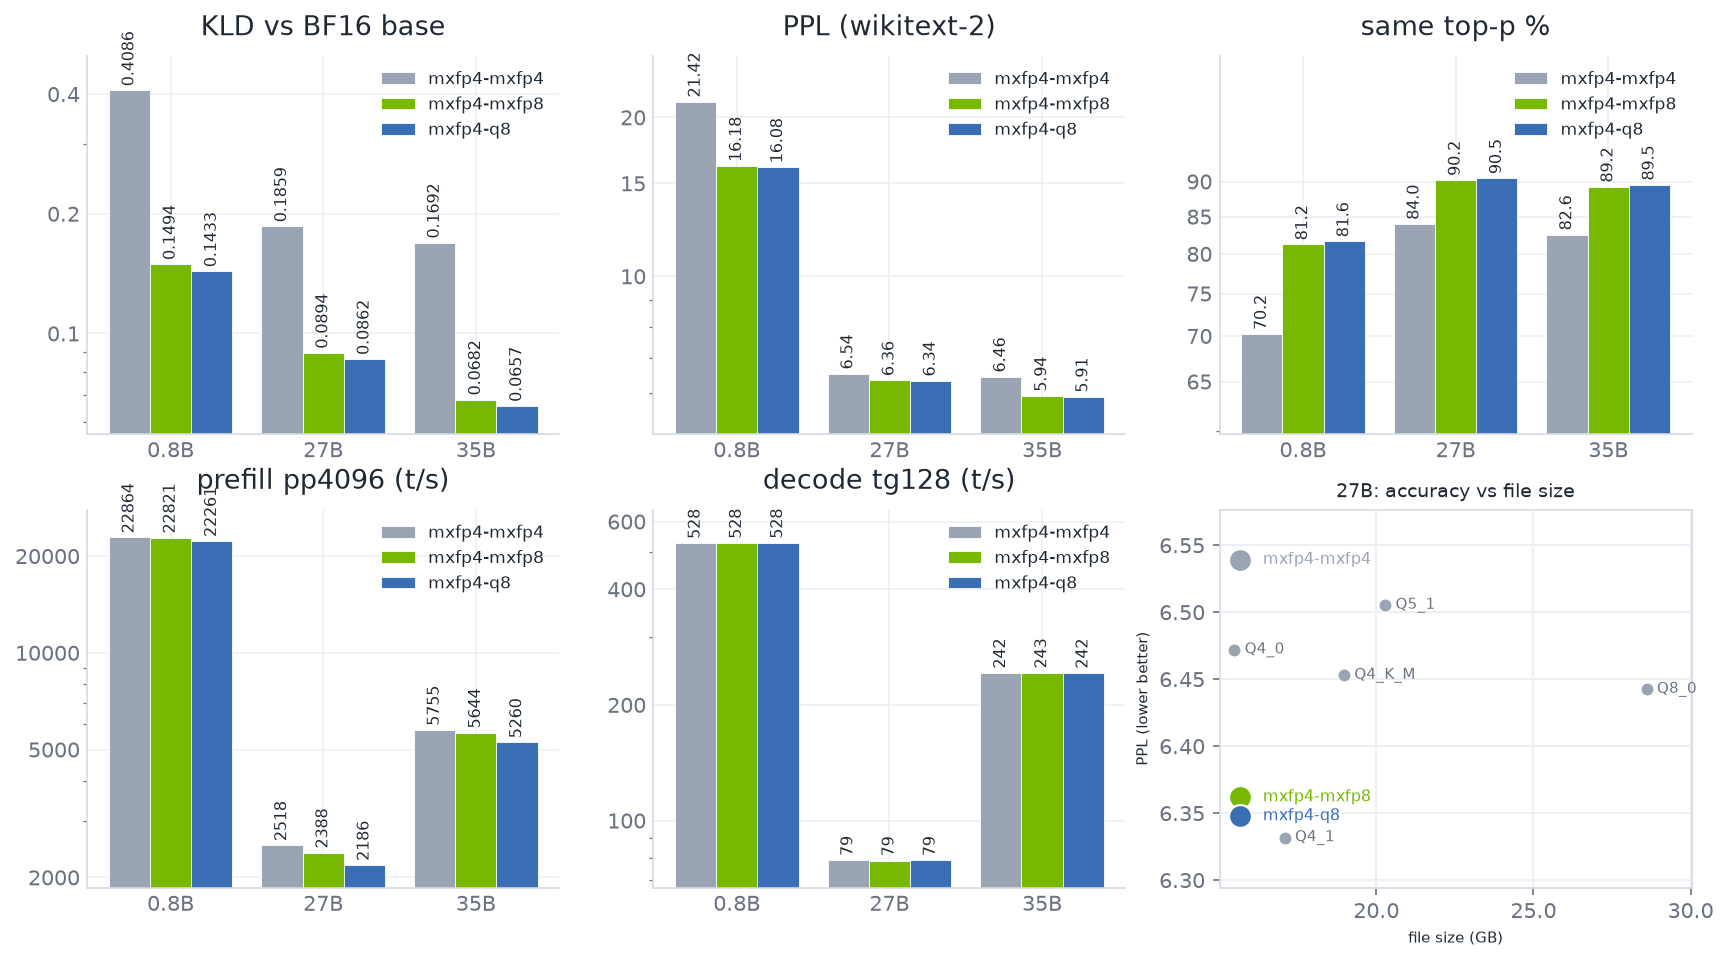
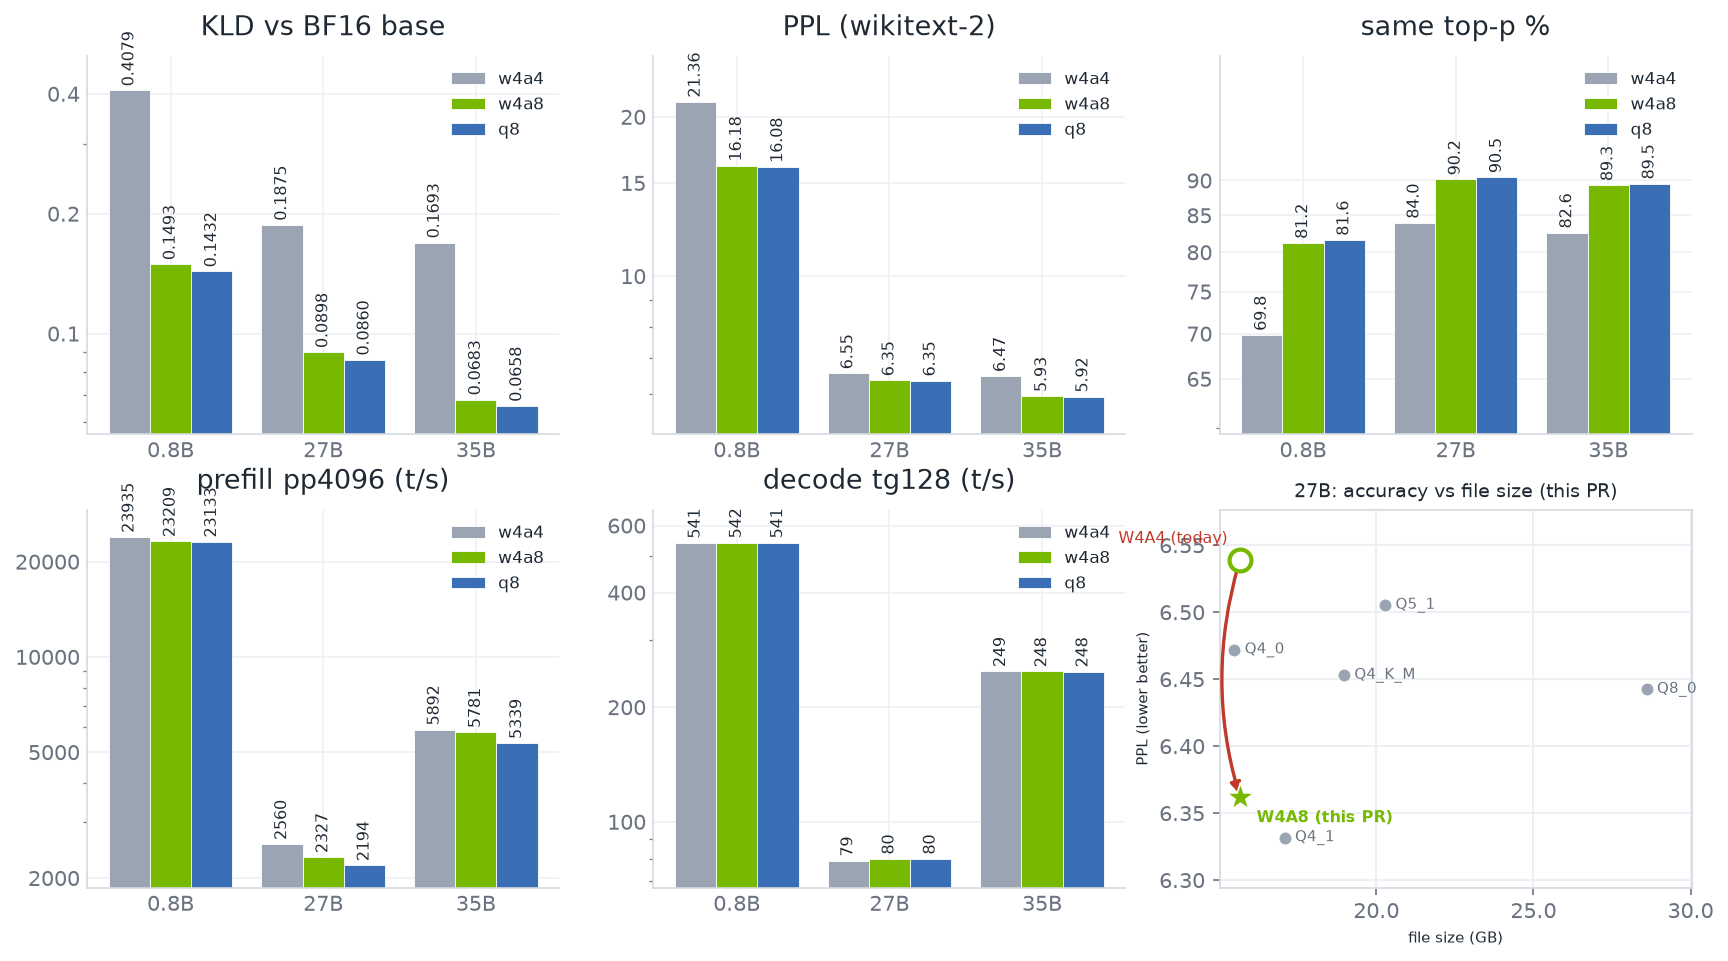
publish: assets update 2026-10-27T01:28:31Z

diff --git a/charts.py b/charts.py
@@ -465,58 +465,27 @@ def kv_uos():
     save(fig, "kv-uos-vs-ebase.png")
 
 
-# ------------------------------------------------------------------ 5060 Ti vs 5070 Ti (second hardware)
+# ------------------------------------------------------------------ 5070 Ti throughput (this PR)
 # (pp4096, tg128) t/s, canonical build (f935b7189 / e467e5b5e), imx quants, -sm tensor -fa on -r 5.
-# 5060 Ti = 2x RTX 5060 Ti (spare-parts-2); 5070 Ti = 2x RTX 5070 Ti (beast). Same flags, comparable.
+# 2x RTX 5070 Ti (beast), branch build 4266778cd on base caa8191df, llama-bench -p 4096 -n 128 -r 5.
 HW_SPD = {
-    "0.8B": {"5060": {"w4a4": (21898, 415.0), "w4a8": (21594, 414.6), "q8": (20726, 414.7)},
-             "5070": {"w4a4": (22864, 527.5), "w4a8": (22821, 527.9), "q8": (22261, 528.2)}},
-    "27B":  {"5060": {"w4a4": (2077, 46.5), "w4a8": (1890, 46.5), "q8": (1674, 46.5)},
-             "5070": {"w4a4": (2518, 78.9), "w4a8": (2388, 78.7), "q8": (2186, 78.8)}},
-    "35B":  {"5060": {"w4a4": (4323, 177.4), "w4a8": (4163, 177.5), "q8": (3861, 177.4)},
-             "5070": {"w4a4": (5755, 242.5), "w4a8": (5644, 242.7), "q8": (5260, 242.4)}},
+    "0.8B": {"5070": {"w4a4": (23935, 540.8), "w4a8": (23209, 541.5), "q8": (23133, 541.4)}},
+    "27B":  {"5070": {"w4a4": (2560, 79.0), "w4a8": (2327, 80.0), "q8": (2194, 80.0)}},
+    "35B":  {"5070": {"w4a4": (5892, 248.7), "w4a8": (5781, 248.3), "q8": (5339, 248.2)}},
 }
 
-def hw_5060_5070():
-    from matplotlib.ticker import FuncFormatter
-    fig, ax = new_figure(1, 2, w=5.6, h=4.2)
-    models = list(HW_SPD.keys())
-    panels = [("prefill pp4096 (t/s)", 0, [1000, 2000, 5000, 10000, 20000, 40000]),
-              ("decode tg128 (t/s)", 1, [25, 50, 100, 200, 400, 600])]
-    arms = [("5060", "w4a4", None), ("5060", "w4a8", None), ("5060", "q8", None),
-            ("5070", "w4a4", "//"), ("5070", "w4a8", "//"), ("5070", "q8", "//")]
-    for col, (title, i, yticks) in enumerate(panels):
-        style_axes(ax[col], title=title)
-        ax[col].set_yscale("log")
-        ax[col].set_yticks(yticks)
-        ax[col].yaxis.set_major_formatter(FuncFormatter(lambda v, _: f"{v:.0f}"))
-        ax[col].tick_params(which="minor", labelleft=False, labelbottom=False)
-        x = np.arange(len(models))
-        w = 0.15
-        for si, (hw, a, h) in enumerate(arms):
-            v = [HW_SPD[m][hw][a][i] for m in models]
-            b = ax[col].bar(x + (si - 2.5) * w, v, width=w,
-                           color={"w4a4": PALETTE["other"], "w4a8": PALETTE["mx"], "q8": PALETTE["q8"]}[a],
-                           hatch=h, edgecolor="white", linewidth=0.4, label=f"{hw} {a}")
-            ax[col].bar_label(b, fmt="%.0f", fontsize=6, color=PALETTE["text"], padding=2, rotation=45)
-        ax[col].set_xticks(x); ax[col].set_xticklabels(models)
-        allv = [HW_SPD[m][hw][a][i] for m in models for hw in ("5060", "5070") for a in ("w4a4", "w4a8", "q8")]
-        ax[col].set_ylim(min(allv) * 0.6, max(allv) * 1.7)
-        ax[col].legend(frameon=False, fontsize=7, loc="upper right", ncol=2)
-    save(fig, "w4a8-5060-vs-5070.png")
-
 # ------------------------------------------------------------------ W4A8 vs W4A4 (this branch)
-# imx quants, canonical build, 2x RTX 5060 Ti. (kld, ppl, topp, pp4096, tg128)
+# imx quants, branch build 4266778cd on base caa8191df, 2x RTX 5070 Ti, round 8. (kld, ppl, topp, pp4096, tg128)
 W4A_RES = {
-    "0.8B": {"w4a4": (0.4086, 21.4186, 70.207, 22864, 527.5),
-             "w4a8": (0.1494, 16.1757, 81.237, 22821, 527.9),
-             "q8":   (0.1433, 16.0827, 81.640, 22261, 528.2)},
-    "27B":  {"w4a4": (0.1859,  6.5416, 84.000,  2518, 78.9),
-             "w4a8": (0.0894,  6.3558, 90.217,  2388, 78.7),
-             "q8":   (0.0862,  6.3436, 90.472,  2186, 78.8)},
-    "35B":  {"w4a4": (0.1692,  6.4566, 82.561,  5755, 242.5),
-             "w4a8": (0.0682,  5.9363, 89.247,  5644, 242.7),
-             "q8":   (0.0657,  5.9126, 89.538,  5260, 242.4)},
+    "0.8B": {"w4a4": (0.4079, 21.3590, 69.847, 23935, 540.8),
+             "w4a8": (0.1493, 16.1805, 81.231, 23209, 541.5),
+             "q8":   (0.1432, 16.0846, 81.639, 23133, 541.4)},
+    "27B":  {"w4a4": (0.1875,  6.5477, 83.958, 2560, 79.0),
+             "w4a8": (0.0898,  6.3524, 90.153, 2327, 80.0),
+             "q8":   (0.0860,  6.3469, 90.477, 2194, 80.0)},
+    "35B":  {"w4a4": (0.1693,  6.4713, 82.628, 5892, 248.7),
+             "w4a8": (0.0683,  5.9316, 89.308, 5781, 248.3),
+             "q8":   (0.0658,  5.9175, 89.548, 5339, 248.2)},
 }
 
 # 27B accuracy-vs-size, single-campaign sweep (fresh, comparable to the mxfp4 arms above)
@@ -599,7 +568,5 @@ if __name__ == "__main__":
         kv_uos()
     if which in ("all", "w4a8"):
         w4a8_vs_w4a4()
-    if which in ("all", "hw"):
-        hw_5060_5070()
     if which in ("all", "res"):
         w4a8_results()

diff --git a/audit_pr_data.py b/audit_pr_data.py
@@ -12,6 +12,8 @@ import os
 sys.path.insert(0, os.path.dirname(os.path.abspath(__file__)))
 import charts  # noqa: E402
 
+ARM_LABEL = {"mxfp4-mxfp4": "w4a4", "mxfp4-mxfp8": "w4a8", "mxfp4-q8": "q8"}
+
 BODY = sys.argv[1] if len(sys.argv) > 1 else os.path.join(
     os.path.dirname(os.path.abspath(__file__)), "PR-body.md")
 
@@ -115,39 +117,33 @@ def audit_uos_table(md):
             close(ppl, d["ppl"][i], 0.0005, f"UOS {model} {part} ppl")
             close(tp, d["topp"][i], 0.005, f"UOS {model} {part} topp")
 
-def audit_hw_table(md):
-    for _model, cells in table_rows(md, "| model | 5060 Ti W4A4 |"):
-        model = cells[0]
-        if model not in charts.HW_SPD:
-            errors.append(f"HW: no chart row for {model!r}")
-            continue
-        for ci, (hw, a) in enumerate([("5060", "w4a4"), ("5060", "w4a8"),
-                                      ("5070", "w4a4"), ("5070", "w4a8")]):
-            pp, tg = (fnum(x) for x in cells[1 + ci].split("/"))
-            close(pp, charts.HW_SPD[model][hw][a][0], 0.5, f"HW {model} {hw} {a} pp")
-            close(tg, charts.HW_SPD[model][hw][a][1], 0.1, f"HW {model} {hw} {a} tg")
-
 def audit_w4a_results(md):
-    # accuracy: | model | arm | KLD | PPL | top-p |  (5060 Ti values, hardware-invariant)
+    # accuracy: | model | arm | KLD | PPL | top-p |  (2x RTX 5070 Ti)
     for _model, cells in table_rows(md, "| model | arm | KLD | PPL | top-p |"):
         model, arm = cells[0], cells[1]
         if model not in charts.W4A_RES:
             errors.append(f"RES: no chart row for {model!r}"); continue
+        if arm in ARM_LABEL:
+            arm = ARM_LABEL[arm]
+        if arm not in charts.W4A_RES[model]:
+            errors.append(f"RES: no chart row for {model} {arm!r}"); continue
         r = charts.W4A_RES[model][arm]
         close(fnum(cells[2]), r[0], 0.0000005, f"RES acc {model} {arm} kld")
         close(fnum(cells[3]), r[1], 0.0005, f"RES acc {model} {arm} ppl")
         close(fnum(cells[4]), r[2], 0.0005, f"RES acc {model} {arm} topp")
-    # throughput: two tables share one header | model | arm | pp4096 | tg128 |
-    # the first nine rows are 5070 Ti, the next nine are 5060 Ti (HW_SPD)
+    # throughput: | model | arm | pp4096 | tg128 |  (2x RTX 5070 Ti, HW_SPD)
     spd = [c for _m, c in table_rows(md, "| model | arm | pp4096 | tg128 |")]
-    for i, cells in enumerate(spd):
+    for cells in spd:
         model, arm = cells[0], cells[1]
         if model not in charts.HW_SPD:
             errors.append(f"RES spd: no chart row for {model!r}"); continue
-        hw = "5070" if i < 9 else "5060"
-        pp, tg = charts.HW_SPD[model][hw][arm]
-        close(fnum(cells[2]), pp, 0.6, f"RES spd {model} {hw} {arm} pp")
-        close(fnum(cells[3]), tg, 0.1, f"RES spd {model} {hw} {arm} tg")
+        if arm in ARM_LABEL:
+            arm = ARM_LABEL[arm]
+        if arm not in charts.HW_SPD[model]["5070"]:
+            errors.append(f"RES spd: no chart row for {model} {arm!r}"); continue
+        pp, tg = charts.HW_SPD[model]["5070"][arm]
+        close(fnum(cells[2]), pp, 0.6, f"RES spd {model} {arm} pp")
+        close(fnum(cells[3]), tg, 0.1, f"RES spd {model} {arm} tg")
 
 def main():
     md = open(BODY).read()
@@ -157,7 +153,7 @@ def main():
     audit_kv_table(md)
     audit_w4a8_table(md)
     audit_uos_table(md)
-    audit_hw_table(md)
+    audit_w4a_results(md)
     if errors:
         print(f"FAIL: {len(errors)} mismatch(es):")
         for e in errors:

diff --git a/PR-body.md b/PR-body.md
@@ -1,34 +1,66 @@
 ## Overview
 
-Adds a W4A8 path for MXFP4 `mul_mat` on Blackwell. `src1` is quantized to e4m3 with ue8m0 block
-scales and multiplied against the e2m1 weights with the block-scaled `kind::mxf8f6f4` MMA
-(`m16n8k32`). MXFP4 on Blackwell uses this path by default.
+Adds a W4A8 path for MXFP4 `mul_mat` on Blackwell. `src1` is quantized to e4m3 values with one ue8m0
+scale per 32 values and multiplied against the e2m1 weights with the block-scaled MMA instruction
+`kind::mxf8f6f4` (`m16n8k32`, `scale_vec::1X`). On Blackwell, MXFP4 layers use this path by default.
+`GGML_CUDA_MMQ_PREC` keeps `q4` (e2m1 activations, the existing `kind::mxf4` instruction) and `q8`
+(q8_1 activations), and adds `fp8` (this path).
 
 This is the CUDA mixed-precision MMA piece of [timlikesai/llama.cpp#14](https://github.com/timlikesai/llama.cpp/pull/14),
 which also carries the dense MXFP4 ftype, imatrix weight quantization and an MXFP4 KV cache. It is
-split out so the change that raises MXFP4 accuracy can be reviewed on its own: it only affects how
-`src1` is quantized and which MMA instruction runs, the weight format is unchanged, and it applies
-to `master` without the rest of #14. Dense model support is planned for a subsequent PR.
+split out so the change that raises MXFP4 accuracy can be reviewed on its own: it changes how `src1` is
+quantized and which MMA instruction runs. The weight format is unchanged. It applies to `master` without
+the rest of #14. Dense MXFP4 quantization is planned for a subsequent PR: master already runs dense
+MXFP4 files, which is why two of the three models below are dense, but `LLAMA_FTYPE_MOSTLY_MXFP4_MOE`
+is the only MXFP4 ftype that can produce them today.
 
-- `GGML_PREC_MXFP8` added to `ggml_prec`. e4m3 is a distinct src1 rank from `GGML_PREC_Q8`:
-  e4m3 codes with one ue8m0 power-of-two scale per 32 values, matching the MXFP4 weight scale
-  groups, instead of q8_1 fp32 block scales. `ggml_prec` values are stored in `op_params` and
-  read by the backend, so the new rank needs no change outside the enum, like `GGML_PREC_Q4`.
-  `GGML_CUDA_MMQ_PREC` stays a debug override; the enum is how a graph asks for e4m3.
+- `ggml_prec` gains `GGML_PREC_FP8 = 35`. e4m3 is a distinct `src1` rank from `GGML_PREC_Q8`: e4m3
+  codes with one ue8m0 power-of-two scale per 32 values, matching the MXFP4 weight scale groups,
+  instead of q8_1 fp32 block scales. `ggml_prec` values are stored in `op_params` and read by the
+  backend, so the new rank needs no change outside the enum, like `GGML_PREC_Q4`. `GGML_CUDA_MMQ_PREC`
+  stays a debug override; the enum is how a graph asks for e4m3.
 - `mma_block_scaled_fp4` takes a `prec_src1` template argument and emits
-  `mma.sync.aligned.kind::mxf8f6f4.block_scale.scale_vec::1X.m16n8k32.row.col.f32.e2m1.e4m3.f32.ue8m0`.
-  The existing `kind::mxf4` `m16n8k64` e2m1 x e2m1 instruction is kept for `GGML_PREC_Q4`.
-- `ggml_cuda_mmq_get_prec_src1` returns `GGML_PREC_MXFP8` for MXFP4 on Blackwell unless Q4 or Q8
-  is requested. NVFP4 is unchanged.
-- `quantize_mmq_mxfp8` and its MoE scatter variant: one warp per 32-value block, lane `l` holds
-  values `4l..4l+3`, `amax` reduced over the 8 lanes of a scale group, e8m0 scale
-  `2^rint(log2(amax / 256))`, four e4m3 codes packed per lane.
-- `ggml_cuda_mmq_load_tiles_mxfp4_mxfp8` loads the packed e2m1 weights and the ue8m0 scales into
-  the SRAM tile; the dot kernel unpacks them into the `mxf8f6f4` A-fragment.
-- MMQ Blackwell tile/SRAM config and template instances for the (MXFP4, MXFP8) pair. The `src1`
-  stride is taken from `y_block_size / y_values_per_block`.
-- `test-backend-ops`: W4A4 / W4A8 / Q8_1 cases for MXFP4. The nmse tolerance follows the
-  effective precision, since `GGML_CUDA_MMQ_PREC` overrides the op parameter.
+  `mma.sync.aligned.kind::mxf8f6f4.block_scale.scale_vec::1X.m16n8k32.row.col.f32.e2m1.e4m3.f32.ue8m0`
+  for `GGML_PREC_FP8`. The `kind::mxf4` (`m16n8k64`, e2m1 x e2m1, ue8m0) and `kind::mxf4nvf4`
+  (`m16n8k64`, e2m1 x e2m1, ue4m3) instructions already in that function keep their behavior.
+- `ggml_cuda_mmq_get_prec_src1` returns `GGML_PREC_FP8` for MXFP4 on Blackwell unless Q4 or Q8 is
+  requested. NVFP4 keeps its existing behavior, and off Blackwell FP4 layers keep q8_1 activations.
+- `quantize_mmq_fp8` and its MoE scatter variant: one warp per 128-value block, lane `l` holds values
+  `4l..4l+3`, `amax` reduced over the 8 lanes of a scale group, block scale
+  `2^(rint(log2(amax)) - 8)` from `compute_e8m0_scale(amax, E4M3_EMAX)`, four e4m3 codes packed per lane.
+- `ggml_cuda_mmq_load_tiles_mxfp4_fp8` writes the packed e2m1 weights and the ue8m0 scales into the
+  SRAM tile; `ggml_cuda_mmq_vec_dot_mxfp4_fp8_mma` unpacks the weights into the `mxf8f6f4` A-fragment
+  (e2m1 nibbles in bits `[2..5]` of each e4m3 slot) and issues the MMA.
+- `block_fp8_mmq` with `QK_FP8_MMQ` and `GGML_CUDA_MMQ_SRAM_LAYOUT_FP8`: 128 e4m3 values plus one ue8m0
+  scale per 32 values, `static_assert`-sized to `block_q8_1_mmq`. The FP8 config selects
+  `K_vram = MMQ_ITER_K`, the same number of blocks per iteration as the q8_1 path.
+- MMQ dispatch and template instances for the (MXFP4, `GGML_PREC_FP8`) pair, including `DECL_MMQ_CASE_FP8`
+  in the generated instance files. The `src1` stride is taken from `y_block_size / y_values_per_block`.
+- `test-backend-ops`: `MUL_MAT_W4A4`, `MUL_MAT_W4A8` and `MUL_MAT_W4A8_FP8` cases for `MUL_MAT` and
+  `MUL_MAT_ID`. The nmse tolerance follows the effective precision, since `GGML_CUDA_MMQ_PREC`
+  overrides the op parameter.
+- `docs/build.md`: the `GGML_CUDA_MMQ_PREC` value list and the Blackwell default.
+
+## Additional information
+
+What the change does not touch: `nvfp4` weight handling and its ue4m3 scales; the MMQ config tables in
+`mmq-config-blackwell.cuh`; `mul_mat_q_process_tile`, which is byte-identical to master; and the
+existing `quantize_mmq_mxfp4` / `quantize_mmq_nvfp4` kernels together with `compute_e8m0_scale`'s e2m1
+call site. `ggml/src/ggml-cuda/mmq.cuh` is a pure insertion. The diff is 529 lines across 12 files
+(+476 / -53).
+
+Correctness, 2x RTX 5070 Ti, `test-backend-ops -b CUDA0 -o "MUL_MAT.*"`:
+
+| build | env | result |
+|---|---|---|
+| branch | `unset` | 4993/4993 tests passed |
+| branch | `q4` | 4993/4993 tests passed |
+| branch | `q8` | 4993/4993 tests passed |
+| branch | `fp8` | 4993/4993 tests passed |
+| branch | `zzz` | 4993/4993 tests passed |
+| base | `unset` | 4989/4989 tests passed |
+
+All cells below were measured on the 2x RTX 5070 Ti box.
 
 ![W4A8 vs W4A4: KLD, PPL, same top-p, prefill pp4096, decode tg128](https://raw.githubusercontent.com/timothyeburke/mxfp4-pr-assets/master/w4a8-results.png)
 
@@ -42,9 +74,9 @@ Each repo also carries the imatrix file that was used, so the quants are reprodu
 - [Qwen3.8-27B-MXFP4](https://huggingface.co/timlikesai/Qwen3.8-27B-MXFP4) (dense)
 - [Qwen3.6-35B-A3B-MXFP4](https://huggingface.co/timlikesai/Qwen3.6-35B-A3B-MXFP4) (MoE, exercises `mul_mat_id`)
 
-The tables are the `*-mxfp4-imx.gguf` file in each repo. Arms: `w4a4` is `master`, which is the current MXFP4 behavior;
-`w4a8` is this branch at its default; `q8` is this branch with `GGML_CUDA_MMQ_PREC=q8`, which
-selects q8_1 activations.
+The tables use the `*-mxfp4-imx.gguf` file of each repo. Arms: `mxfp4-mxfp4` is `master`, the current
+MXFP4 behavior; `mxfp4-mxfp8` is this branch at its default; `mxfp4-q8` is this branch with
+`GGML_CUDA_MMQ_PREC=q8`, which selects q8_1 activations. All three read the same weight files.
 
 Accuracy, KLD and PPL against BF16 reference logits recorded from the unquantized base:
 
@@ -56,49 +88,35 @@ Throughput:
 
     llama-bench -m <model>-mxfp4-imx.gguf -p 4096 -n 128 -ngl 999 -sm tensor -fa on -r 5
 
-Accuracy is hardware-invariant; the 2x RTX 5060 Ti run agrees within rounding.
-
 Accuracy:
 
 | model | arm | KLD | PPL | top-p |
 |---|---|---:|---:|---:|
-| 0.8B  | w4a4 | 0.4086 | 21.4186 | 70.207 |
-| 0.8B  | w4a8 | 0.1494 | 16.1757 | 81.237 |
-| 0.8B  | q8   | 0.1433 | 16.0827 | 81.640 |
-| 27B   | w4a4 | 0.1859 |  6.5416 | 84.000 |
-| 27B   | w4a8 | 0.0894 |  6.3558 | 90.217 |
-| 27B   | q8   | 0.0862 |  6.3436 | 90.472 |
-| 35B   | w4a4 | 0.1692 |  6.4566 | 82.561 |
-| 35B   | w4a8 | 0.0682 |  5.9363 | 89.247 |
-| 35B   | q8   | 0.0657 |  5.9126 | 89.538 |
+| 0.8B  | mxfp4-mxfp4 | 0.4079 | 21.3590 | 69.847 |
+| 0.8B  | mxfp4-mxfp8 | 0.1493 | 16.1805 | 81.231 |
+| 0.8B  | mxfp4-q8    | 0.1432 | 16.0846 | 81.639 |
+| 27B   | mxfp4-mxfp4 | 0.1875 |  6.5477 | 83.958 |
+| 27B   | mxfp4-mxfp8 | 0.0898 |  6.3524 | 90.153 |
+| 27B   | mxfp4-q8    | 0.0860 |  6.3469 | 90.477 |
+| 35B   | mxfp4-mxfp4 | 0.1693 |  6.4713 | 82.628 |
+| 35B   | mxfp4-mxfp8 | 0.0683 |  5.9316 | 89.308 |
+| 35B   | mxfp4-q8    | 0.0658 |  5.9175 | 89.548 |
 
-Throughput, 2x RTX 5070 Ti:
-
-| model | arm | pp4096 | tg128 |
-|---|---|---:|---:|
-| 0.8B  | w4a4 | 22864 | 527.5 |
-| 0.8B  | w4a8 | 22821 | 527.9 |
-| 0.8B  | q8   | 22261 | 528.2 |
-| 27B   | w4a4 |  2518 |  78.9 |
-| 27B   | w4a8 |  2388 |  78.7 |
-| 27B   | q8   |  2186 |  78.8 |
-| 35B   | w4a4 |  5755 | 242.5 |
-| 35B   | w4a8 |  5644 | 242.7 |
-| 35B   | q8   |  5260 | 242.4 |
-
-Throughput, 2x RTX 5060 Ti:
+Throughput results:
 
 | model | arm | pp4096 | tg128 |
 |---|---|---:|---:|
-| 0.8B  | w4a4 | 21898 | 415.0 |
-| 0.8B  | w4a8 | 21594 | 414.6 |
-| 0.8B  | q8   | 20726 | 414.7 |
-| 27B   | w4a4 |  2077 |  46.5 |
-| 27B   | w4a8 |  1890 |  46.5 |
-| 27B   | q8   |  1674 |  46.5 |
-| 35B   | w4a4 |  4323 | 177.4 |
-| 35B   | w4a8 |  4163 | 177.5 |
-| 35B   | q8   |  3861 | 177.4 |
+| 0.8B  | mxfp4-mxfp4 | 23935 | 540.8 |
+| 0.8B  | mxfp4-mxfp8 | 23209 | 541.5 |
+| 0.8B  | mxfp4-q8    | 23133 | 541.4 |
+| 27B   | mxfp4-mxfp4 | 2560 | 79.0 |
+| 27B   | mxfp4-mxfp8 | 2327 | 80.0 |
+| 27B   | mxfp4-q8    | 2194 | 80.0 |
+| 35B   | mxfp4-mxfp4 | 5892 | 248.7 |
+| 35B   | mxfp4-mxfp8 | 5781 | 248.3 |
+| 35B   | mxfp4-q8    | 5339 | 248.2 |
+
+The 0.8B cells are noisy at `-r 5`. Re-run at `-r 15` on the same build: `mxfp4-mxfp4` pp4096 23872.82 ± 83.20, tg128 542.97 ± 3.41; `mxfp4-mxfp8` pp4096 23719.63 ± 83.31, tg128 542.55 ± 3.33; `mxfp4-q8` pp4096 23016.86 ± 107.72, tg128 542.64 ± 2.71.
 
 </details>
 
